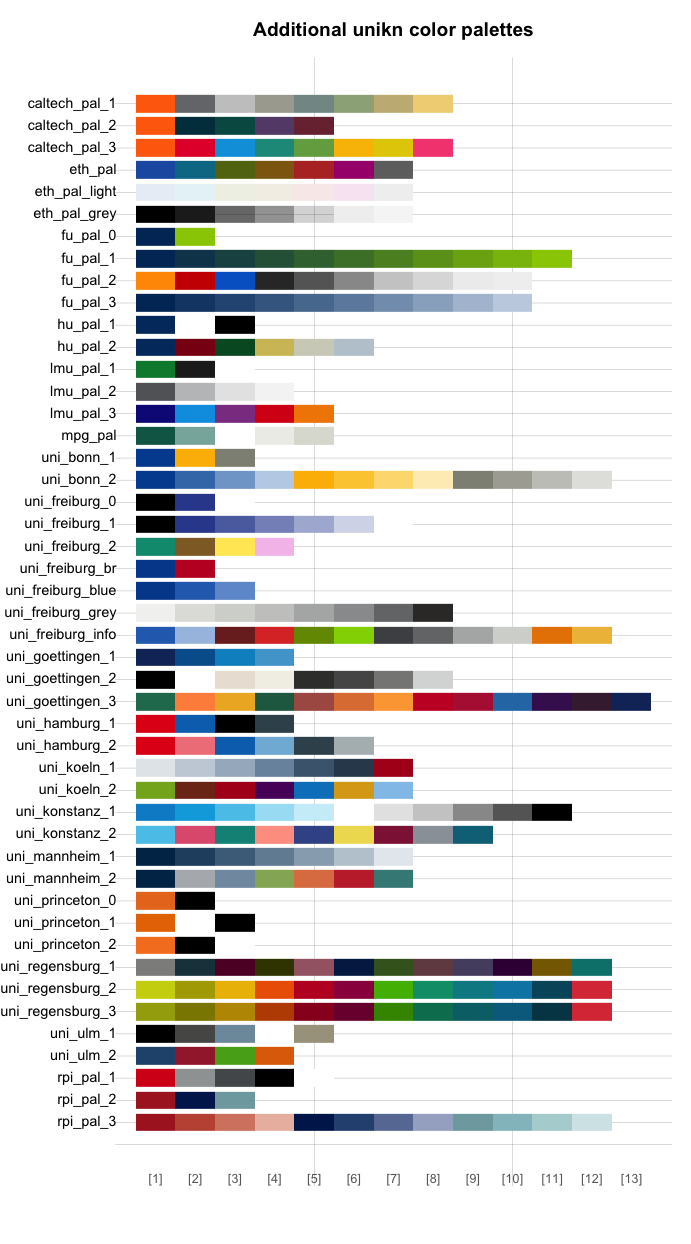
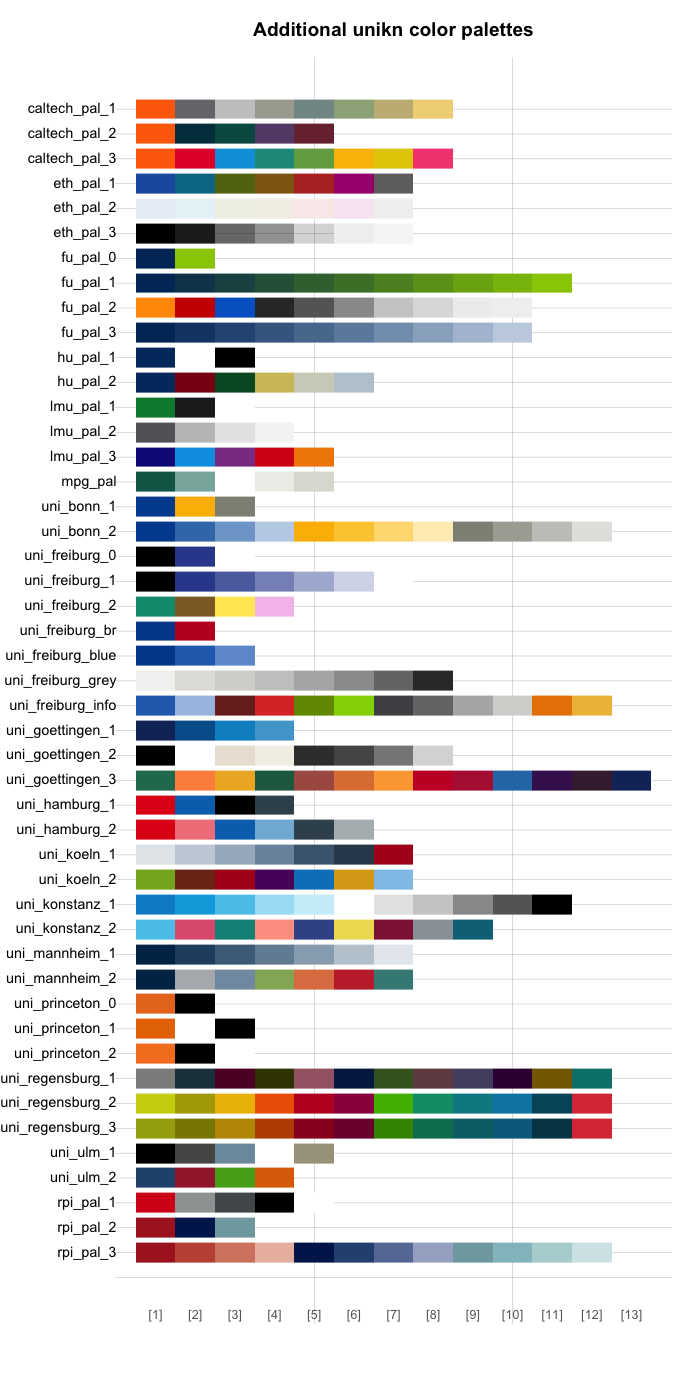
rename 2 color palettes of ETH Zurich

diff --git a/README.md b/README.md
@@ -196,8 +196,8 @@ color palettes of the following institutions:
 
 -   [Caltech](https://www.caltech.edu/): `caltech_pal_1`,
     `caltech_pal_2`, `caltech_pal_3`
--   [ETH Zurich](https://ethz.ch/): `eth_pal`, `eth_pal_light`,
-    `eth_pal_grey`
+-   [ETH Zurich](https://ethz.ch/): `eth_pal_1`, `eth_pal_2`,
+    `eth_pal_3`
 -   [Free University Berlin](https://www.fu-berlin.de/en/index.html):
     `fu_pal_0`, `fu_pal_1`, `fu_pal_2`, `fu_pal_3`
 -   [Humboldt University Berlin](https://www.hu-berlin.de/en):
@@ -208,7 +208,7 @@ color palettes of the following institutions:
 -   [University of Freiburg](https://uni-freiburg.de/):
     `uni_freiburg_0`, `uni_freiburg_1`, `uni_freiburg_2`,  
     (from 2022: `uni_freiburg_br`, `uni_freiburg_blue`,
-    `uni_freiburg_grey`, `uni_freiburg_info`)  
+    `uni_freiburg_grey`, `uni_freiburg_info`)
 -   [University of Göttingen](https://uni-goettingen.de/):
     `uni_goettingen_1`, `uni_goettingen_2`, `uni_goettingen_3`
 -   [University of Hamburg](https://www.uni-hamburg.de/):
@@ -216,7 +216,7 @@ color palettes of the following institutions:
 -   [University of Köln](https://www.uni-koeln.de/): `uni_koeln_1`,
     `uni_koeln_2`
 -   [University of Konstanz](https://www.uni-konstanz.de/):
-    `uni_konstanz`, `uni_konstanz_pref`
+    `uni_konstanz_1`, `uni_konstanz_2`
 -   [University of Mannheim](https://www.uni-mannheim.de/):
     `uni_mannheim_1`, `uni_mannheim_2`
 -   [Princeton University](https://www.princeton.edu/):
@@ -292,7 +292,7 @@ Using `seecol()` on an individual color palette provides a quick
 overview over its colors and details:
 
     # Inspect an individual color palette:
-    seecol(pal = eth_pal,                      # a color palette / list of palettes / keyword
+    seecol(pal = eth_pal_1,                    # a color palette / list of palettes / keyword
            col_brd = "white", lwd_brd = 5,     # color and width of borders
            main = "Colors of the ETH Zurich")  # plot title 
 

diff --git a/NEWS.md b/NEWS.md
@@ -32,6 +32,8 @@ Changes since last release:
 
 - Updated color palettes:
 
+    - [ETH Zurich](https://ethz.ch/): Renamed `eth_pal`, `eth_pal_light`, `eth_pal_grey` 
+    to `eth_pal_1`, `eth_pal_2`, `eth_pal_3`, respectively 
     - [Max Planck Society](https://www.mpg.de/en): `mpg_pal` (based on RGB values and extended to 5 colors) 
     - [University of Freiburg](https://uni-freiburg.de/): `uni_freiburg_0`, `uni_freiburg_1`, `uni_freiburg_2`,   
     (added to palettes from\ 2022: `uni_freiburg_br`, `uni_freiburg_blue`, `uni_freiburg_grey`, `uni_freiburg_info`)  
